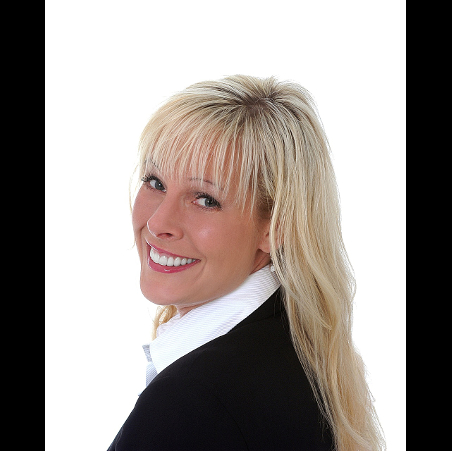
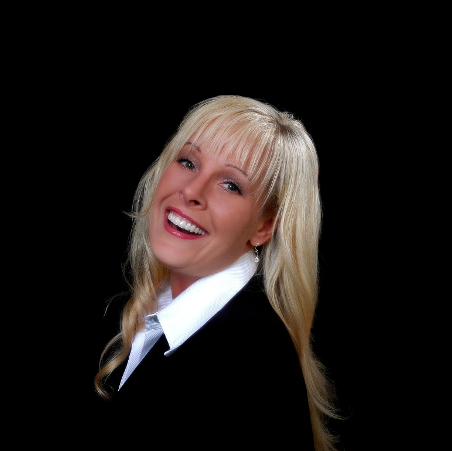
added new photos & fixed some text

diff --git a/index.html b/index.html
@@ -64,7 +64,7 @@
 		<div class="container">
 			<div id="home-row-1" class="row clearfix">
 				<div class="col-12">
-					<img src="images/logo_paintbrush_white.png" width="640" height="423" alt="LennArt Dental Studio Logo"> 
+					<img src="images/logo_paintbrush_white.png" alt="LennArt Dental Studio Logo"> 
 					<br>
 					<br>
 				</div>
@@ -83,30 +83,34 @@
 	<div class="slide story" id="slide-2" data-slide="2">
 		<div class="container">
 			<div class="row title-row">
-				<div class="col-12 font-thin">Master ceramist <span class="font-semibold">Lennart Hoerler</span> founded LennArt Dental Studio when he recognized the need for a laboratory that focused solely on <span class="font-semibold">Cosmetic Dentistry.</span></div>
+				<div class="col-12 font-thin">Master ceramist <span class="font-semibold">Lennart Hoerler</span> founded LennArt Dental Studio when he recognized the need for a laboratory that focused on <span class="font-semibold">Cosmetic Dentistry.</span></div>
 			</div><!-- /row -->
 			<div class="row line-row">
 				<div class="hr">&nbsp;</div>
 			</div><!-- /row -->
 			<div class="row subtitle-row">
-				<div class="col-12 font-thin">This is what <span class="font-semibold">we do best</span></div>
+				<div class="col-12 font-thin">This is what <span class="font-semibold">we do</span></div>
 			</div><!-- /row -->
 			<div class="row content-row">
 				<div class="col-12 col-lg-3 col-sm-6">
 					<p>&nbsp;</p>
-					<h2 class="font-semibold">Porcelian <span class="font-thin">Bonded Restorations</span></h2>
+					<h2 class="font-semibold">F eldspathic</span></h2>
+					<p>more...</p>
 				</div><!-- /col12 -->
 				<div class="col-12 col-lg-3 col-sm-6">
 					<p>&nbsp;</p>
-					<h2 class="font-thin">e.Max <span class="font-semibold">Restorations</span></h2>
+					<h2 class="font-semibold">e.Max</span></h2>
+					<p><a href="http://www.ivoclarvivadent.us/en-us/p/dental-professional/products/all-ceramics/ips-emax-system-dentists/">more...</a></p>
 				</div><!-- /col12 -->
 				<div class="col-12 col-lg-3 col-sm-6">
 					<p>&nbsp;</p>
-					<h2 class="font-thin">Metal insert <span class="font-semibold">Bridges</span></h2>
+					<h2 class="font-thin">Diagnostic <span class="font-semibold">Wax Up</span></h2>
+					<p>more...</p>
 				</div><!-- /col12 -->
 				<div class="col-12 col-lg-3 col-sm-6">
 					<p>&nbsp;</p>
 					<h2 class="font-thin">Dental <span class="font-semibold">Implants</span></h2>
+					<a href="http://www.dentsplyimplants.us/en-US/Digital-solutions/Discover-ATLANTIS/Cement-retained-restorations">  more...</a>
 				</div><!-- /col12 -->
 			</div><!-- /row -->
 		</div><!-- /container -->
@@ -131,6 +135,17 @@
 			<div class="col-12 col-sm-6 col-lg-2"><a data-fancybox-group="portfolio" class="fancybox" href="images/large/LennArtSmiles 14.jpg"><img class="thumb" src="images/small/LennArtSmiles 14.jpg" alt=""></a></div>
 			<div class="col-12 col-sm-6 col-lg-2"><a data-fancybox-group="portfolio" class="fancybox" href="images/large/LennArtSmiles 15.jpg"><img class="thumb" src="images/small/LennArtSmiles 15.jpg" alt=""></a></div>
 			<div class="col-12 col-sm-6 col-lg-2"><a data-fancybox-group="portfolio" class="fancybox" href="images/large/LennArtSmiles 16.jpg"><img class="thumb" src="images/small/LennArtSmiles 16.jpg" alt=""></a></div>
+			<div class="col-12 col-sm-6 col-lg-2"><a data-fancybox-group="portfolio" class="fancybox" href="images/large/LennArtSmiles 17.jpg"></a></div>
+			<div class="col-12 col-sm-6 col-lg-2"><a data-fancybox-group="portfolio" class="fancybox" href="images/large/LennArtSmiles 18.jpg"></a></div>
+			<div class="col-12 col-sm-6 col-lg-2"><a data-fancybox-group="portfolio" class="fancybox" href="images/large/LennArtSmiles 19.jpg"></a></div>
+			<div class="col-12 col-sm-6 col-lg-2"><a data-fancybox-group="portfolio" class="fancybox" href="images/large/LennArtSmiles 20.jpg"></a></div>
+			<div class="col-12 col-sm-6 col-lg-2"><a data-fancybox-group="portfolio" class="fancybox" href="images/large/LennArtSmiles 21.jpg"></a></div>
+			<div class="col-12 col-sm-6 col-lg-2"><a data-fancybox-group="portfolio" class="fancybox" href="images/large/LennArtSmiles 22.jpg"></a></div>
+			<div class="col-12 col-sm-6 col-lg-2"><a data-fancybox-group="portfolio" class="fancybox" href="images/large/LennArtSmiles 23.jpg"></a></div>
+			<div class="col-12 col-sm-6 col-lg-2"><a data-fancybox-group="portfolio" class="fancybox" href="images/large/LennArtSmiles 24.jpg"></a></div>
+			<div class="col-12 col-sm-6 col-lg-2"><a data-fancybox-group="portfolio" class="fancybox" href="images/large/LennArtSmiles 25.jpg"></a></div>
+			<div class="col-12 col-sm-6 col-lg-2"><a data-fancybox-group="portfolio" class="fancybox" href="images/large/LennArtSmiles 26.jpg"></a></div>
+			<div class="col-12 col-sm-6 col-lg-2"><a data-fancybox-group="portfolio" class="fancybox" href="images/large/LennArtSmiles 27.jpg"></a></div>
 		</div><!-- /row -->
 	</div><!-- /slide3 -->
 	
@@ -192,7 +207,7 @@
 				<div class="col-sm-1 hidden-sm">&nbsp;</div>
 				<div class="col-12 col-sm-2 with-hover-text">
 					<p><a target="_blank" href="#"><i class="icon icon-phone"></i></a></p>
-					<span class="hover-text font-light ">+001 425.889.5976</span></a>
+					<span class="hover-text font-light ">425.889.5976</span></a>
 				</div><!-- /col12 -->
 				<div class="col-12 col-sm-2 with-hover-text">
 					<p><a target="_blank" href="#"><i class="icon icon-envelope"></i></a></p>
